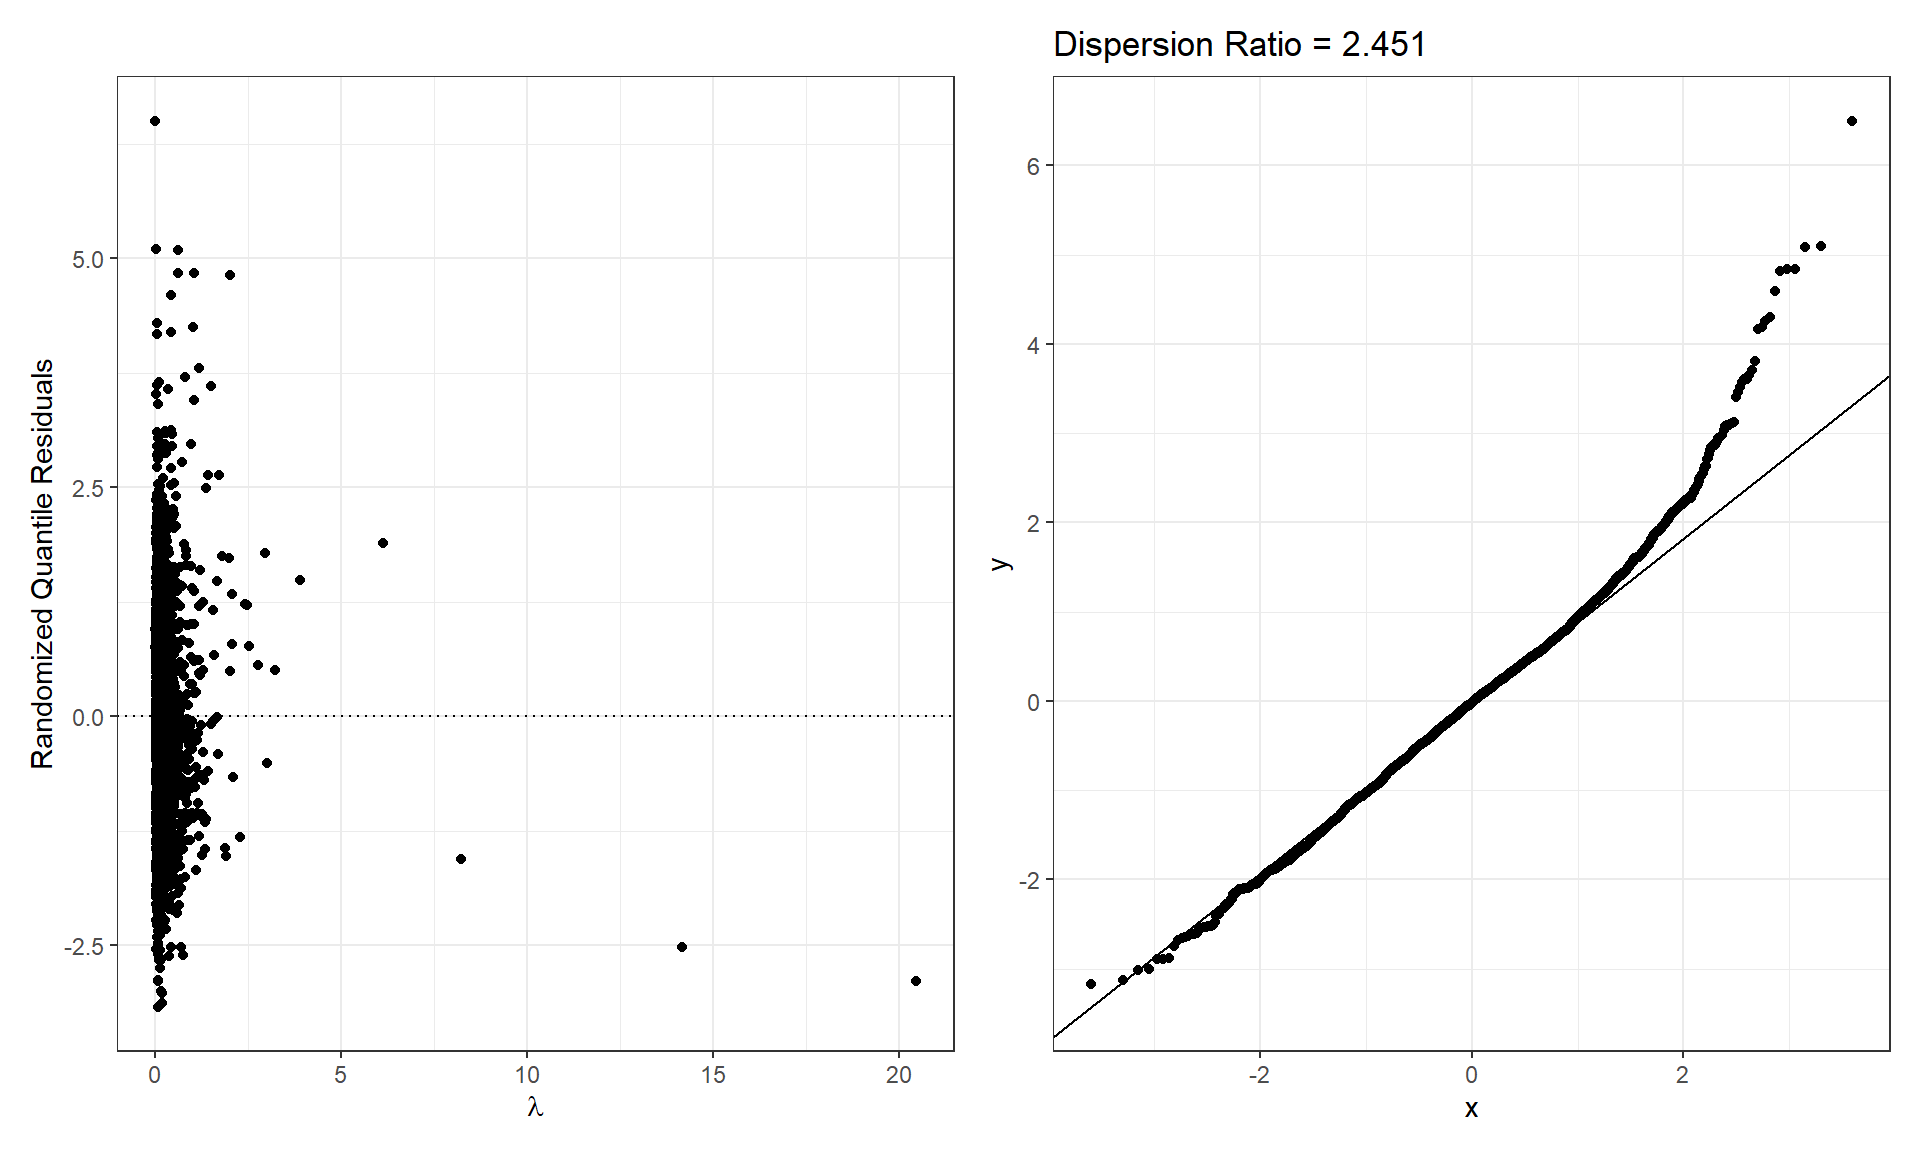
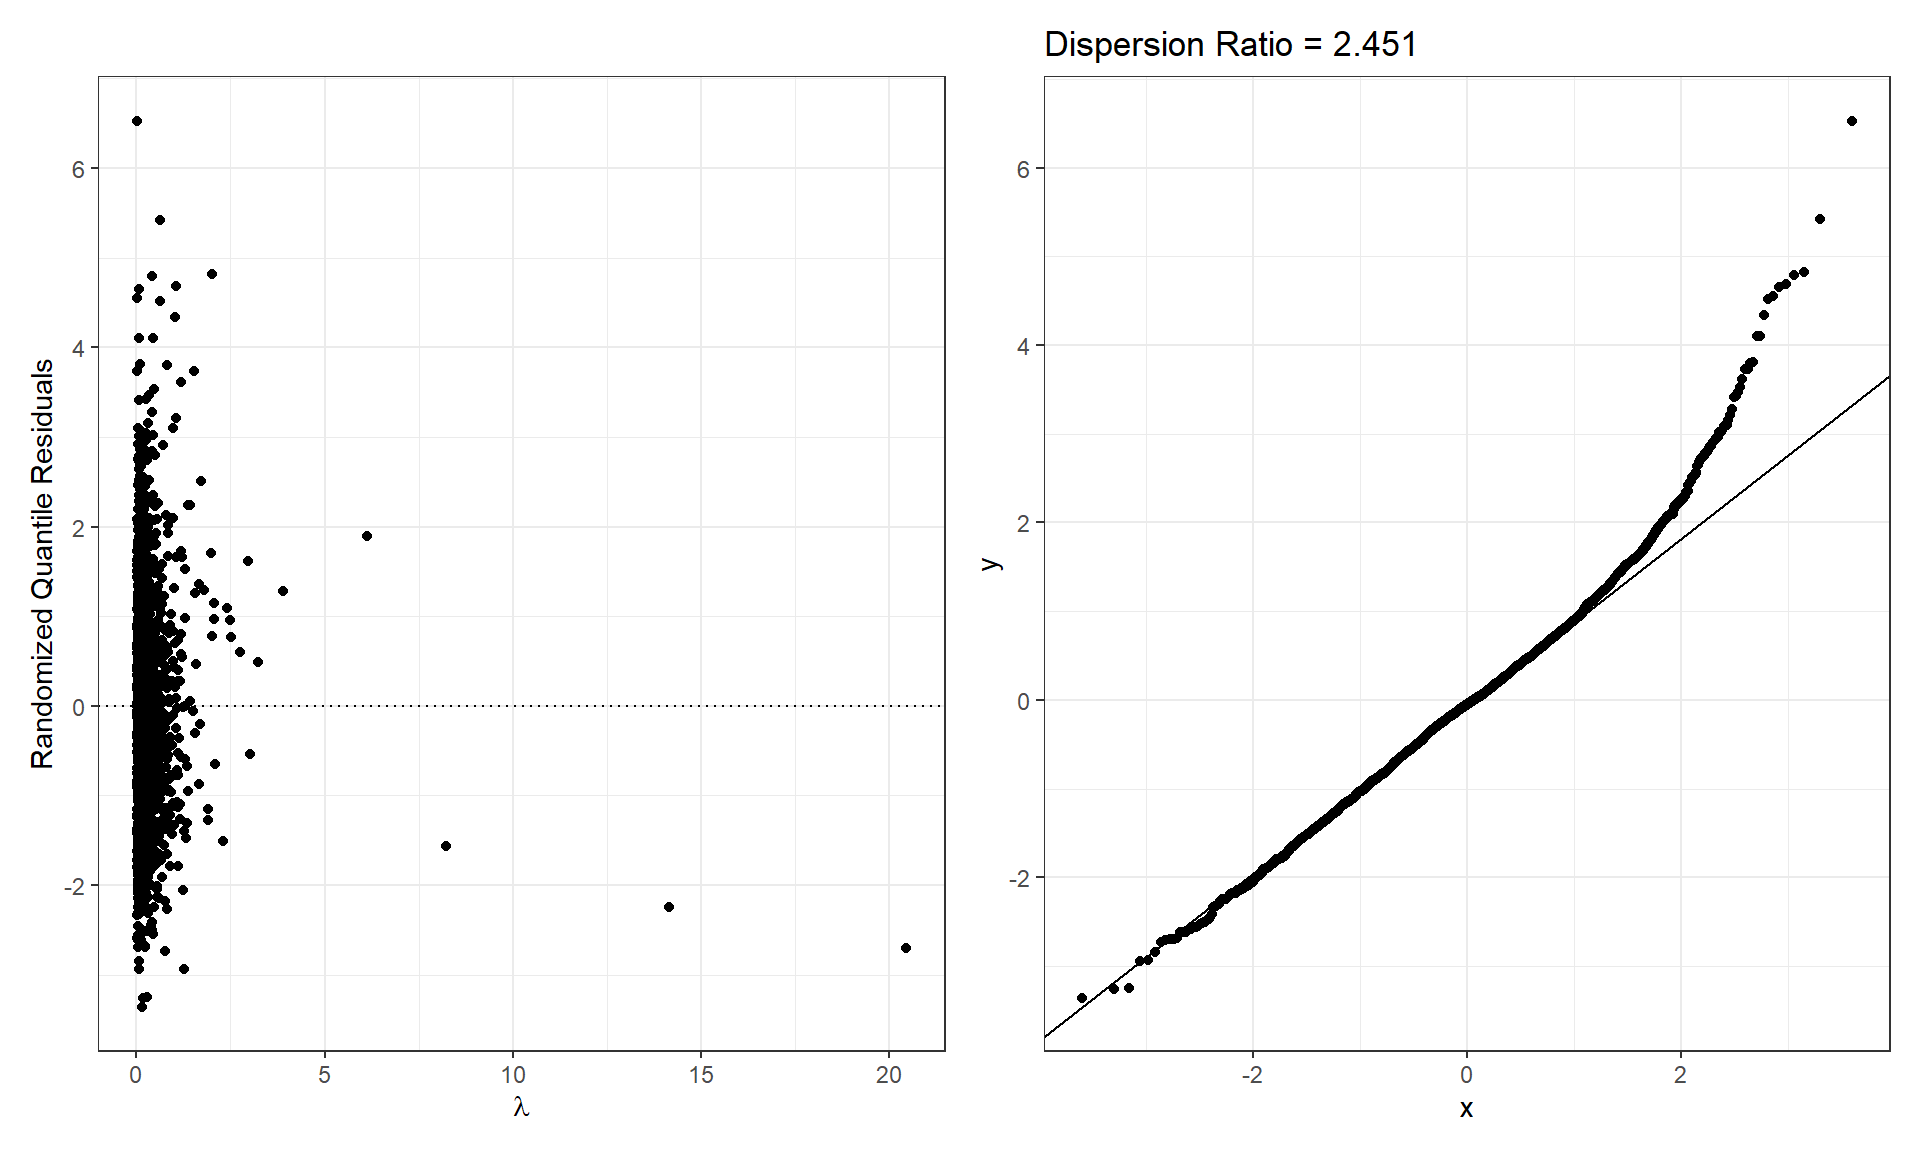
Built site for gh-pages

diff --git a/Data Analysis II/HW3/HW3WriteUp.html b/Data Analysis II/HW3/HW3WriteUp.html
@@ -525,7 +525,10 @@ window.Quarto = {
   <ul class="collapse">
   <li><a href="#answer" id="toc-answer" class="nav-link" data-scroll-target="#answer"><span class="header-section-number">1.1.1</span> Answer</a></li>
   </ul></li>
-  <li><a href="#part-b" id="toc-part-b" class="nav-link" data-scroll-target="#part-b"><span class="header-section-number">1.2</span> Part b</a></li>
+  <li><a href="#part-b" id="toc-part-b" class="nav-link" data-scroll-target="#part-b"><span class="header-section-number">1.2</span> Part b</a>
+  <ul class="collapse">
+  <li><a href="#answer-1" id="toc-answer-1" class="nav-link" data-scroll-target="#answer-1"><span class="header-section-number">1.2.1</span> Answer</a></li>
+  </ul></li>
   <li><a href="#part-c" id="toc-part-c" class="nav-link" data-scroll-target="#part-c"><span class="header-section-number">1.3</span> Part c</a></li>
   <li><a href="#part-d" id="toc-part-d" class="nav-link" data-scroll-target="#part-d"><span class="header-section-number">1.4</span> Part d</a></li>
   <li><a href="#part-e" id="toc-part-e" class="nav-link" data-scroll-target="#part-e"><span class="header-section-number">1.5</span> Part e</a></li>
@@ -703,6 +706,64 @@ Figure&nbsp;2: Predictions Against Pearson Residuals for the Poisson Model
 <section id="part-b" class="level2" data-number="1.2">
 <h2 data-number="1.2" class="anchored" data-anchor-id="part-b"><span class="header-section-number">1.2</span> Part b</h2>
 <p>Fit a Negative Binomial regression model that matches the Poisson model in part (a). Assess whether the model is appropriately fit.</p>
+<section id="answer-1" class="level3" data-number="1.2.1">
+<h3 data-number="1.2.1" class="anchored" data-anchor-id="answer-1"><span class="header-section-number">1.2.1</span> Answer</h3>
+<p></p>
+<div class="cell">
+<details class="code-fold">
+<summary>Code</summary>
+<div class="code-copy-outer-scaffold"><div class="sourceCode cell-code" id="cb4"><pre class="sourceCode numberSource r number-lines code-with-copy"><code class="sourceCode r"><span id="cb4-1"><a href="#cb4-1" aria-label="1"></a>nbinom_mod <span class="ot">&lt;-</span> MASS<span class="sc">::</span><span class="fu">glm.nb</span>(formula, <span class="at">data =</span> dat)</span></code></pre></div><button title="Copy to Clipboard" class="code-copy-button"><i class="bi"></i></button></div>
+</details>
+</div>
+<p></p>
+<p>Once again, let’s check our dispersion ratio and our randomized-quantile residuals:</p>
+<p></p>
+<div class="cell">
+<details class="code-fold">
+<summary>Code</summary>
+<div class="code-copy-outer-scaffold"><div class="sourceCode cell-code" id="cb5"><pre class="sourceCode numberSource r number-lines code-with-copy"><code class="sourceCode r"><span id="cb5-1"><a href="#cb5-1" aria-label="1"></a>lambdas <span class="ot">&lt;-</span> <span class="fu">predict</span>(nbinom_mod, <span class="at">type =</span> <span class="st">"response"</span>)</span>
+<span id="cb5-2"><a href="#cb5-2" aria-label="2"></a>n <span class="ot">=</span> <span class="fu">nrow</span>(dat)</span>
+<span id="cb5-3"><a href="#cb5-3" aria-label="3"></a>y <span class="ot">=</span> dat<span class="sc">$</span>FinalEC</span>
+<span id="cb5-4"><a href="#cb5-4" aria-label="4"></a>rqr <span class="ot">&lt;-</span> <span class="fu">rep</span>(<span class="cn">NA</span>, n)</span>
+<span id="cb5-5"><a href="#cb5-5" aria-label="5"></a><span class="cf">for</span>(i <span class="cf">in</span> <span class="dv">1</span><span class="sc">:</span>n){</span>
+<span id="cb5-6"><a href="#cb5-6" aria-label="6"></a>  ai <span class="ot">&lt;-</span> <span class="fu">ppois</span>(y[i]<span class="sc">-</span><span class="dv">1</span>, <span class="at">lambda=</span>lambdas[i])</span>
+<span id="cb5-7"><a href="#cb5-7" aria-label="7"></a>  bi <span class="ot">&lt;-</span> <span class="fu">ppois</span>(y[i], <span class="at">lambda=</span>lambdas[i])</span>
+<span id="cb5-8"><a href="#cb5-8" aria-label="8"></a>  ui <span class="ot">&lt;-</span> <span class="fu">runif</span>(<span class="dv">1</span>, ai, bi)</span>
+<span id="cb5-9"><a href="#cb5-9" aria-label="9"></a>  rqr[i] <span class="ot">&lt;-</span> <span class="fu">qnorm</span>(ui)</span>
+<span id="cb5-10"><a href="#cb5-10" aria-label="10"></a>}</span>
+<span id="cb5-11"><a href="#cb5-11" aria-label="11"></a></span>
+<span id="cb5-12"><a href="#cb5-12" aria-label="12"></a>pearson.ratio <span class="ot">&lt;-</span> <span class="fu">sum</span>(<span class="fu">residuals</span>(nbinom_mod, <span class="at">type =</span> <span class="st">"pearson"</span>)<span class="sc">^</span><span class="dv">2</span>) <span class="sc">/</span>nbinom_mod<span class="sc">$</span>df.residual</span>
+<span id="cb5-13"><a href="#cb5-13" aria-label="13"></a></span>
+<span id="cb5-14"><a href="#cb5-14" aria-label="14"></a>p1 <span class="ot">&lt;-</span> <span class="fu">ggplot</span>(<span class="at">data=</span><span class="fu">tibble</span>(<span class="at">lambda=</span>lambdas,</span>
+<span id="cb5-15"><a href="#cb5-15" aria-label="15"></a>                         <span class="at">e=</span>rqr)) <span class="sc">+</span> </span>
+<span id="cb5-16"><a href="#cb5-16" aria-label="16"></a>      <span class="fu">geom_hline</span>(<span class="at">yintercept=</span><span class="dv">0</span>, <span class="at">linetype=</span><span class="st">"dotted"</span>)<span class="sc">+</span></span>
+<span id="cb5-17"><a href="#cb5-17" aria-label="17"></a>      <span class="fu">geom_point</span>(<span class="fu">aes</span>(<span class="at">x=</span>lambda, <span class="at">y=</span>e)) <span class="sc">+</span></span>
+<span id="cb5-18"><a href="#cb5-18" aria-label="18"></a>      <span class="fu">theme_bw</span>()<span class="sc">+</span></span>
+<span id="cb5-19"><a href="#cb5-19" aria-label="19"></a>      <span class="fu">xlab</span>(<span class="fu">bquote</span>(lambda))<span class="sc">+</span></span>
+<span id="cb5-20"><a href="#cb5-20" aria-label="20"></a>      <span class="fu">ylab</span>(<span class="st">"Randomized Quantile Residuals"</span>)</span>
+<span id="cb5-21"><a href="#cb5-21" aria-label="21"></a>p2 <span class="ot">&lt;-</span> <span class="fu">ggplot</span>(<span class="at">data=</span><span class="fu">tibble</span>(<span class="at">e=</span>rqr)) <span class="sc">+</span></span>
+<span id="cb5-22"><a href="#cb5-22" aria-label="22"></a>  <span class="fu">stat_qq</span>(<span class="fu">aes</span>(<span class="at">sample=</span>e)) <span class="sc">+</span></span>
+<span id="cb5-23"><a href="#cb5-23" aria-label="23"></a>  <span class="fu">stat_qq_line</span>(<span class="fu">aes</span>(<span class="at">sample=</span>e)) <span class="sc">+</span></span>
+<span id="cb5-24"><a href="#cb5-24" aria-label="24"></a>  <span class="fu">theme_bw</span>() <span class="sc">+</span></span>
+<span id="cb5-25"><a href="#cb5-25" aria-label="25"></a>  <span class="fu">ggtitle</span>(<span class="fu">paste</span>(<span class="st">"Dispersion Ratio ="</span>, <span class="fu">round</span>(pearson.ratio, <span class="dv">4</span>)))</span>
+<span id="cb5-26"><a href="#cb5-26" aria-label="26"></a>p1<span class="sc">+</span>p2</span></code></pre></div><button title="Copy to Clipboard" class="code-copy-button"><i class="bi"></i></button></div>
+</details>
+<div class="cell-output-display">
+<div id="fig-dispersion_nbinom" class="quarto-float quarto-figure quarto-figure-center anchored">
+<figure class="quarto-float quarto-float-fig figure">
+<figcaption class="quarto-float-caption-top quarto-float-caption quarto-float-fig" id="fig-dispersion_nbinom-caption-0ceaefa1-69ba-4598-a22c-09a6ac19f8ca">
+Figure&nbsp;3: Randomized Quantile Residuals of the Negative Binomial Model
+</figcaption>
+<div aria-describedby="fig-dispersion_nbinom-caption-0ceaefa1-69ba-4598-a22c-09a6ac19f8ca">
+<img src="HW3WriteUp_files/figure-html/fig-dispersion_nbinom-1.png" class="img-fluid figure-img" width="960">
+</div>
+</figure>
+</div>
+</div>
+</div>
+<p></p>
+<p>Our dispersion ratio here is definitely better. It’s a bit hard to see the pattern of the residuals because of the massive negative outliers though.</p>
+</section>
 </section>
 <section id="part-c" class="level2" data-number="1.3">
 <h2 data-number="1.3" class="anchored" data-anchor-id="part-c"><span class="header-section-number">1.3</span> Part c</h2>
